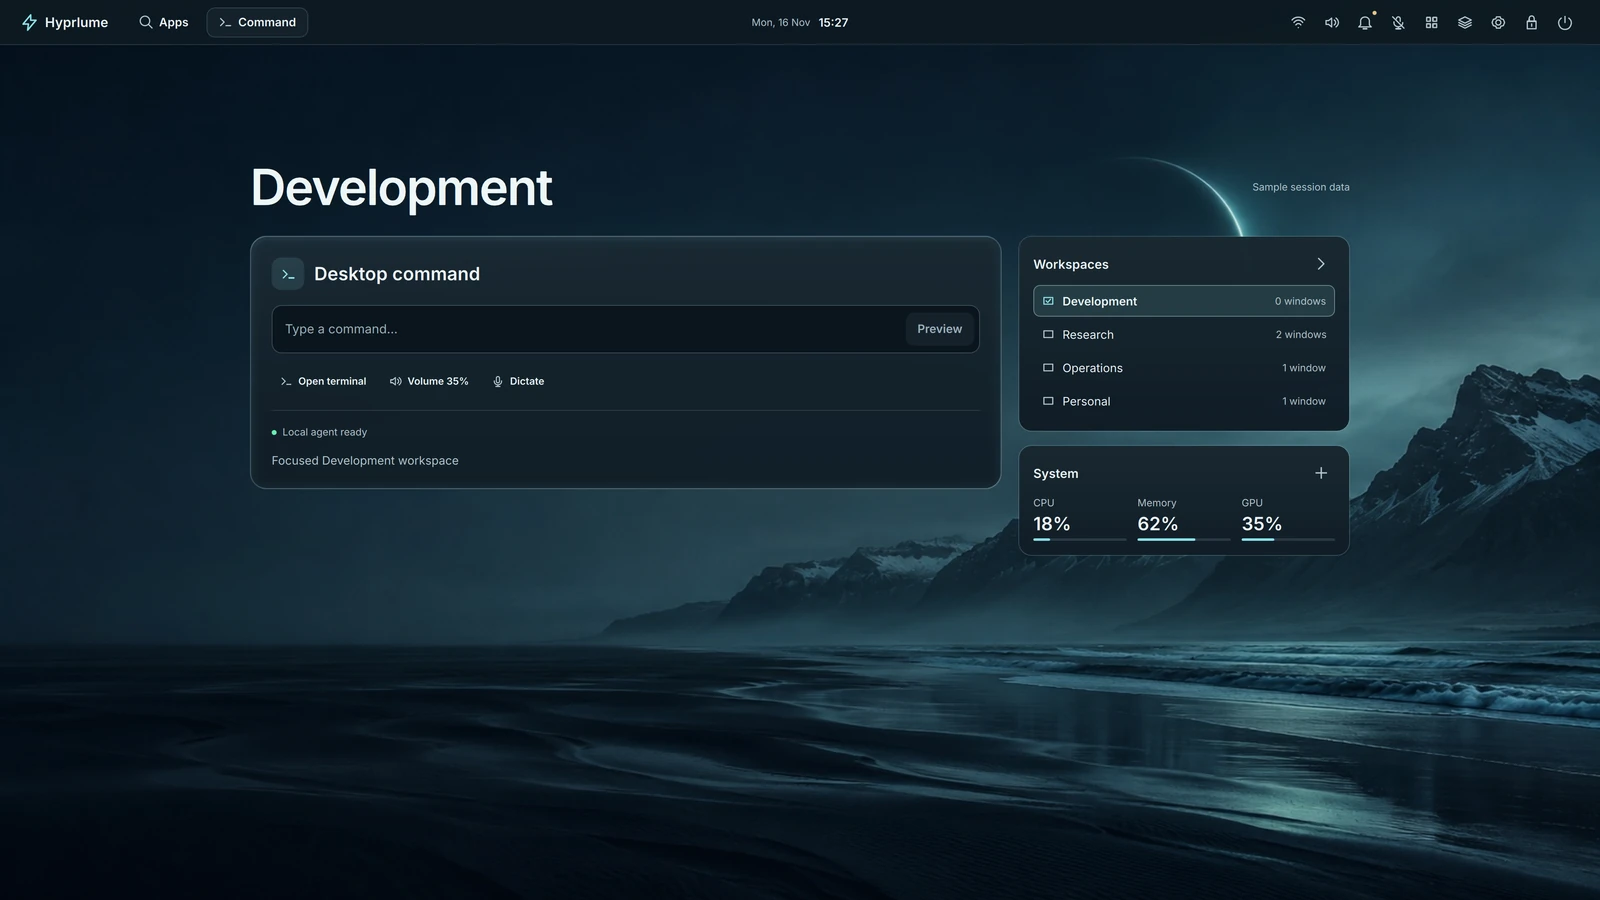
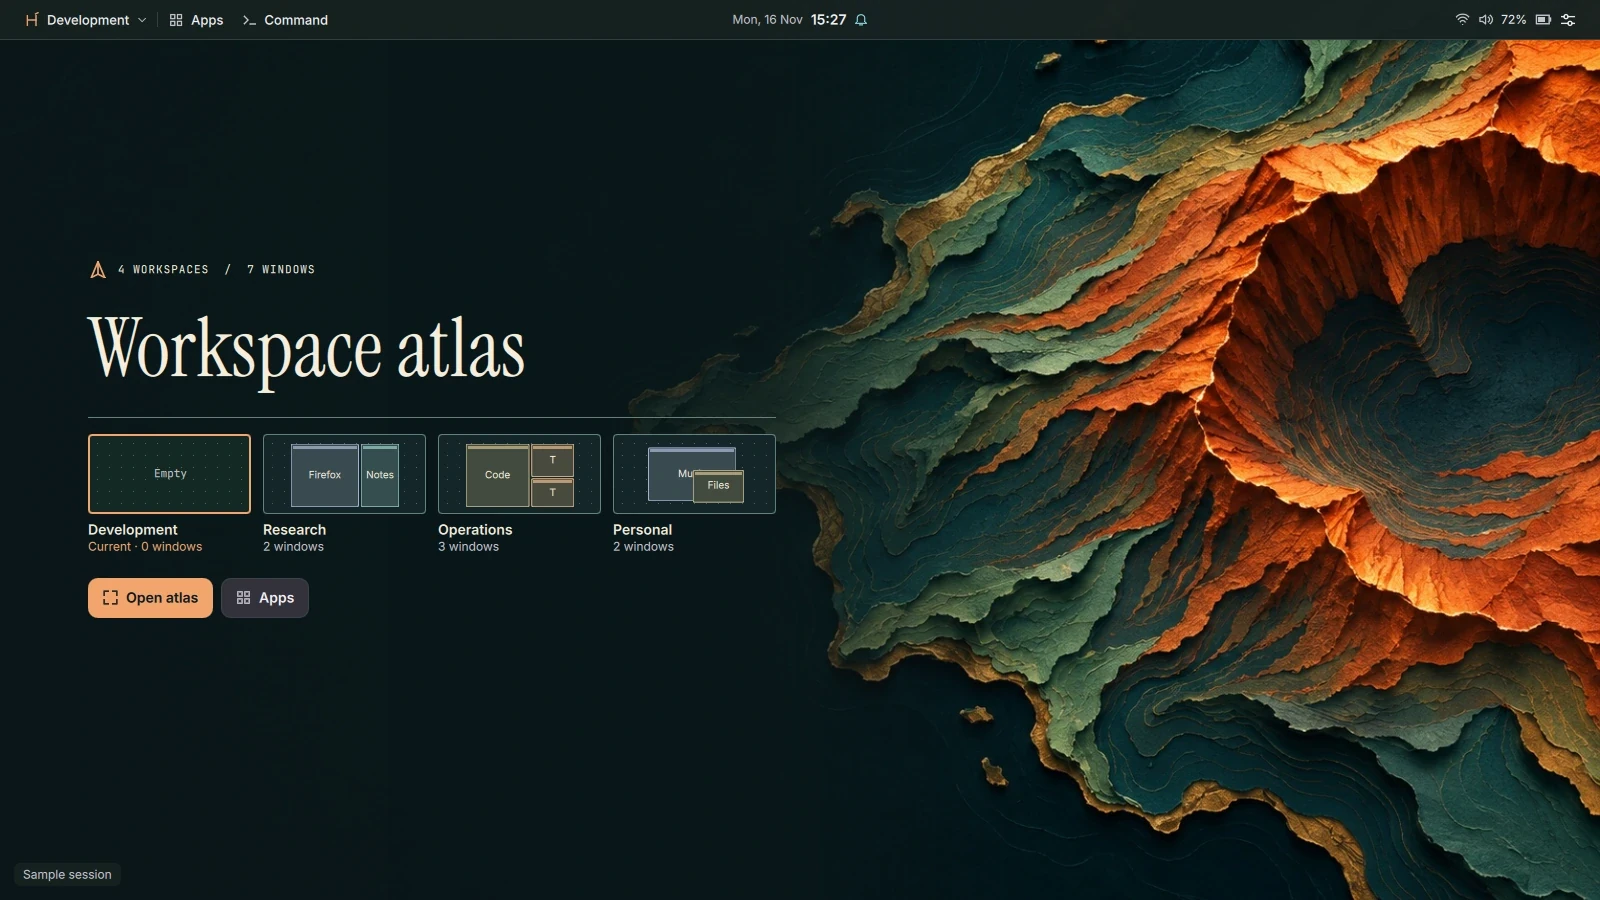
Prepare Hyprlume 0.7.0 workspace atlas release

diff --git a/site/index.html b/site/index.html
@@ -6,7 +6,7 @@
     <meta name="theme-color" content="#090b14" />
     <meta
       name="description"
-      content="Hyprlume is a Hyprland shell with a responsive command dashboard, native desktop controls and a local English voice companion. Built with Rust and Quickshell."
+      content="Hyprlume is a Hyprland shell with a live workspace atlas, native desktop controls and a local English voice companion. Built with Rust and Quickshell."
     />
     <meta
       http-equiv="Content-Security-Policy"
@@ -19,7 +19,7 @@
     />
     <meta
       property="og:description"
-      content="Plan desktop commands, manage workspaces and check system activity in a native Hyprland shell."
+      content="Find a window by its shape, switch workspaces and preview local voice commands in a native Hyprland shell."
     />
     <meta
       property="og:url"
@@ -31,7 +31,7 @@
     />
     <meta
       property="og:image:alt"
-      content="Hyprlume's glass desktop rendered by Quickshell, with labelled sample session data"
+      content="Hyprlume's workspace atlas over a copper relief landscape, rendered by Quickshell with sample session data"
     />
     <meta name="twitter:card" content="summary_large_image" />
     <link rel="canonical" href="https://sumerchoudhary78.github.io/hyprlume/" />
@@ -119,8 +119,8 @@
         <div class="hero-topline">
           <a
             class="release-pill"
-            href="https://github.com/sumerchoudhary78/hyprlume/releases/tag/v0.6.0"
-            ><span class="status-light"></span>v0.6.0
+            href="https://github.com/sumerchoudhary78/hyprlume/releases/tag/v0.7.0"
+            ><span class="status-light"></span>v0.7.0
             <span class="pill-divider">/</span> desktop preview
             <span aria-hidden="true">↗</span></a
           ><span class="eyebrow hero-coordinate"
@@ -133,8 +133,8 @@
           </h1>
           <div class="hero-intro">
             <p>
-              A Hyprland shell with a responsive command dashboard, desktop
-              controls and a voice companion that runs locally.
+              Find a window by its shape and click straight into it. Hyprlume
+              brings a workspace atlas and local voice controls to Hyprland.
             </p>
             <a class="button button-primary" href="#install"
               >Install on Arch<svg class="icon" aria-hidden="true">
@@ -158,7 +158,7 @@
               width="1600"
               height="900"
               fetchpriority="high"
-              alt="Hyprlume's command dashboard, workspace list and system readings over a dark coastal wallpaper"
+              alt="Four workspace maps show a browser beside notes, three tiled windows and overlapping apps over a copper relief landscape"
             />
           </div>
           <figcaption>
@@ -199,8 +199,8 @@
               </h2>
             </div>
             <p class="section-intro">
-              Preview a command or switch workspaces from Home. Open system
-              details and Connections when you need them.
+              Open the atlas over an app to switch windows. Quick Settings
+              puts audio, connections and session controls in the bar.
             </p>
           </div>
           <div class="desktop-explorer">
@@ -237,15 +237,15 @@
                 hidden
               >
                 <span class="feature-symbol" aria-hidden="true">◇</span>
-                <h3>Command dashboard</h3>
+                <h3>Workspace atlas</h3>
                 <p>
-                  Enter a desktop command, review the proposed action, and
-                  check CPU, memory and GPU readings.
+                  Click the terminal on the right of a split to focus that
+                  terminal. Resize the split and the map follows.
                 </p>
                 <ul class="detail-list">
-                  <li>Sharp vector icons on scaled displays</li>
-                  <li>Live workspaces and system data</li>
-                  <li>Compact and reduced-effects layouts</li>
+                  <li>Live tiled and floating window layouts</li>
+                  <li>Keyboard navigation and a window list by title</li>
+                  <li>Compact, high-contrast and reduced-effects layouts</li>
                 </ul>
               </div>
               <div
@@ -444,7 +444,8 @@
             <span class="note-number">01 /</span>
             <h3>Get out of the way.</h3>
             <p>
-              The dashboard hides behind open apps and pauses system sampling.
+              The atlas clears when you open an app. Window geometry refreshes
+              only while a map is visible.
             </p>
           </article>
           <article>
@@ -493,8 +494,8 @@
               >AUR package <span aria-hidden="true">↗</span></a
             ><a
               class="text-link"
-              href="https://github.com/sumerchoudhary78/hyprlume/releases/tag/v0.6.0"
-              >v0.6.0 release <span aria-hidden="true">↗</span></a
+              href="https://github.com/sumerchoudhary78/hyprlume/releases/tag/v0.7.0"
+              >v0.7.0 release <span aria-hidden="true">↗</span></a
             >
           </div>
           <div class="preview-notice">
@@ -632,7 +633,7 @@ cargo build --release --locked</code></pre>
               >
             </summary>
             <p>
-              Hyprlume runs on Hyprland and provides a status bar, dashboard,
+              Hyprlume runs on Hyprland and provides a status bar, workspace atlas,
               launcher and desktop services. Start it in an existing Hyprland
               session or choose the optional Hyprlume session at login.
             </p>

diff --git a/site/assets/app.js b/site/assets/app.js
@@ -1,7 +1,7 @@
 const viewData = {
   desktop: {
     image: "desktop",
-    alt: "The Hyprlume desktop showing commands, workspaces and system readings",
+    alt: "Four workspace maps showing tiled and floating windows over a copper relief landscape",
     caption: "Desktop · Quickshell and Qt Quick",
     guide: "docs/homescreen.md",
   },

diff --git a/scripts/site-assets.py b/scripts/site-assets.py
@@ -25,7 +25,7 @@ def main():
     media.mkdir(parents=True, exist_ok=True)
     fonts.mkdir(parents=True, exist_ok=True)
     screenshots = {
-        "desktop": ROOT / "docs/design/shell-preview.webp",
+        "desktop": ROOT / "docs/design/atlas-desktop.webp",
         "connections": ROOT / "assets/connections-preview.png",
     }
     for name, source in screenshots.items():

diff --git a/README.md b/README.md
@@ -5,8 +5,9 @@
 [Project website](https://sumerchoudhary78.github.io/hyprlume/) · [Setup guide](docs/setup.md) · [AUR](https://aur.archlinux.org/packages/hyprlume)
 
 Hyprlume is a desktop shell and local English voice companion for **Hyprland**.
-Search applications and open windows, switch workspaces, and preview typed or
-spoken commands before applying them. Rust runs the desktop services and speech
+Its workspace atlas lets you find an open window by its shape and click straight
+into it. Search apps or preview typed and spoken commands from the bar.
+Rust runs the desktop services and speech
 engine. Quickshell renders the interface, and HyprPilot carries out desktop
 actions. [HyprPilot](https://github.com/sumerchoudhary78/HyprPilot)
 
@@ -38,18 +39,17 @@ Caldera wallpaper in **Settings → Desktop**.
 
 ### Try the desktop in a window
 
-On Linux with Quickshell installed, run the interactive sample session from
-the atlas checkout. It uses simulated devices and workspaces.
+On Linux with Quickshell installed, run the interactive sample session from the
+0.7.0 release. It uses simulated devices and workspaces.
 
 ```sh
-git clone --branch codex/workspace-atlas https://github.com/sumerchoudhary78/hyprlume.git
+git clone --branch v0.7.0 --depth 1 https://github.com/sumerchoudhary78/hyprlume.git
 cd hyprlume
 quickshell -p ./shell/design-preview.qml
 ```
 
-To use the redesign with your own Hyprland session, build from this checkout.
-The v0.6.0 preview release contains the earlier dashboard.
-[Build from source](#build-from-source) · [v0.6.0 release](https://github.com/sumerchoudhary78/hyprlume/releases/tag/v0.6.0)
+To use the atlas with your own windows, install the Arch package or build the
+release from source. [Install on Arch](#install-on-arch) · [Build from source](#build-from-source) · [v0.7.0 release](https://github.com/sumerchoudhary78/hyprlume/releases/tag/v0.7.0)
 
 <details>
 <summary>Watch the v0.5.0 demo (39 seconds)</summary>
@@ -108,9 +108,13 @@ There is no cloud endpoint, transcript database, or screen recording by default.
 
 ## Install on Arch
 
+Install or upgrade the `hyprlume` package from the AUR. The workspace atlas is
+included from **0.7.0-1**. [AUR package](https://aur.archlinux.org/packages/hyprlume)
+
 ```sh
 yay -S hyprlume
 # or: paru -S hyprlume
+pacman -Q hyprlume
 ```
 
 The AUR recipe builds the Rust application from its release tag. The matching

diff --git a/CHANGELOG.md b/CHANGELOG.md
@@ -1,5 +1,15 @@
 # Changelog
 
+## 0.7.0 — 2026-11-21
+
+- Empty workspaces show an atlas of open windows over the new Caldera wallpaper.
+  Click a window's shape to focus it. The maps follow window moves, resizes and closures.
+- Open the atlas over an app with the workspace name in the bar or `Super+W`
+  in the starter session. Navigate with the arrow keys or choose a window by title.
+- Quick Settings groups audio, connection and session controls. The bar keeps
+  active microphone and recording stop controls within reach.
+- Include the Instrument Serif heading font and its license in the Arch package.
+
 ## 0.6.0 — 2026-11-20
 
 - Redesign Home around inline command previews, workspace switching and

diff --git a/site/README.md b/site/README.md
@@ -40,7 +40,7 @@ in `index.html`; use the repository's validation notes for performance claims.
 ## Asset provenance
 
 - `media/*.webp` derive from the synthetic-data QML renders in
-  `docs/design/shell-preview.webp` and `assets/connections-preview.png`.
+  `docs/design/atlas-desktop.webp` and `assets/connections-preview.png`.
 - `brand.svg` is the project's existing mark.
 - Space Grotesk is self-hosted under the SIL Open Font License retained in
   `assets/fonts/OFL.txt`. The source is Google Fonts at commit
